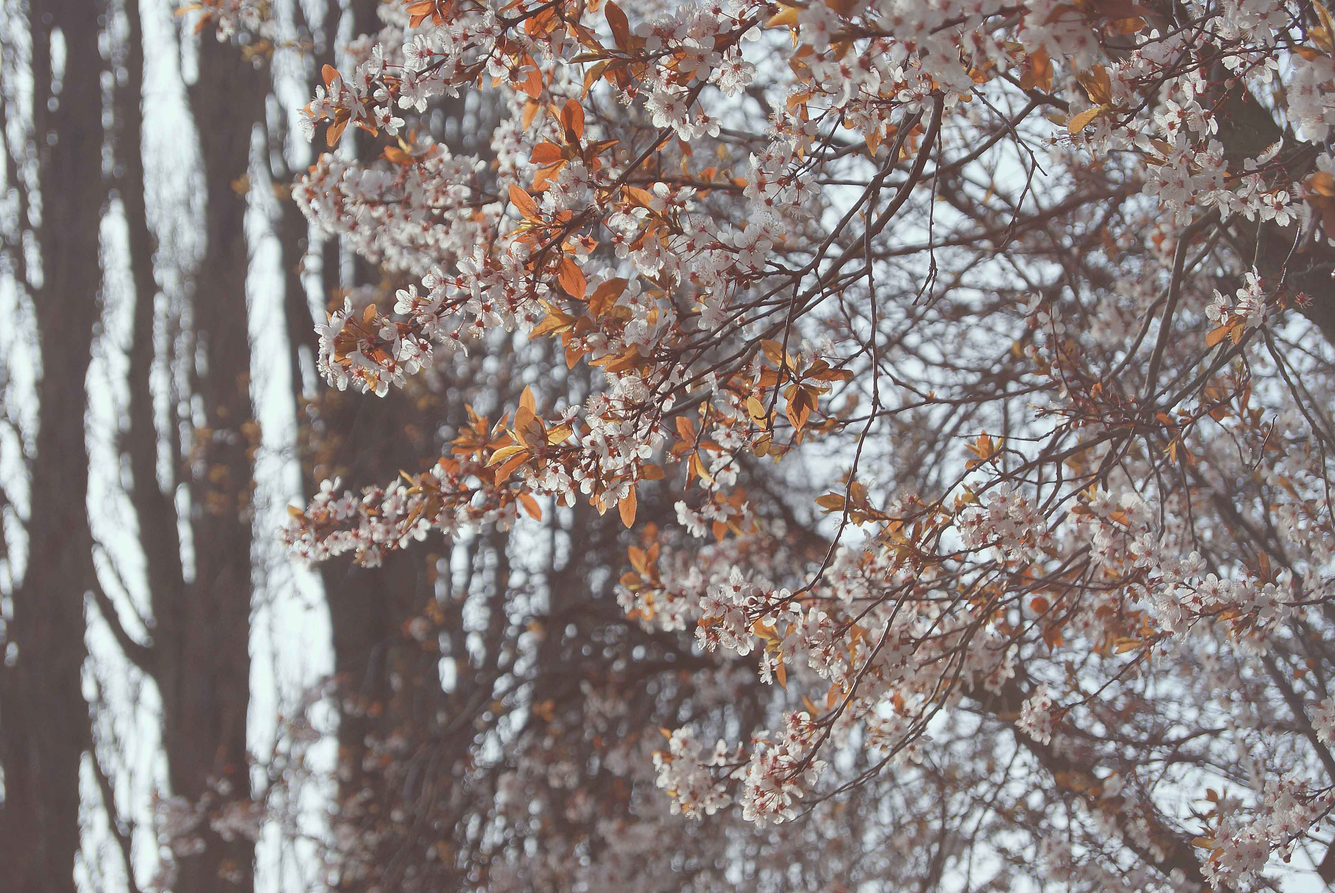
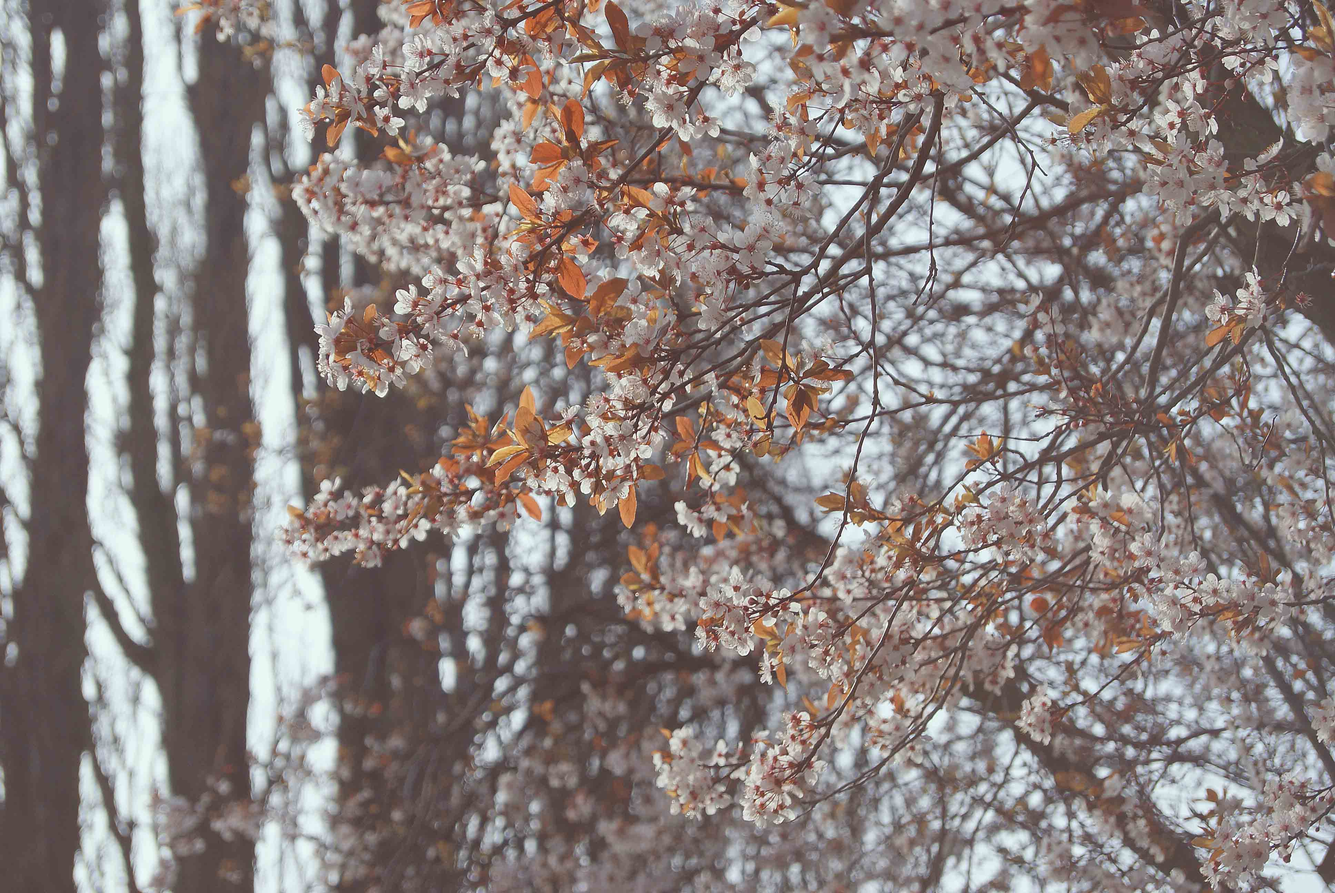
Cover photo
Cover photo less kb

diff --git a/css/style.css b/css/style.css
@@ -253,9 +253,7 @@ textarea {
 }
 
 .socialMedia {
-	float: right;
 	margin: 20px 1px;
-	padding-right: 20%
 }
 
 .socialMedia img {
@@ -272,10 +270,8 @@ textarea {
 
 .copyright {
 	margin-top: 2%;
-	float: left;
 	font-size: 0.8em;
 	color: #777777;
-	padding-left: 25%;
 
 }
 
@@ -330,12 +326,12 @@ nav a:hover {
 	*************************/
 
 .firstColumn {
-		width: 40%;
+		width: 45%;
 		float: left;
 	}
 
 	.secondColulmn {
-		width: 55%;
+		width: 45%;
 		float: right;
 		margin-right: 3.056%;
 	}
